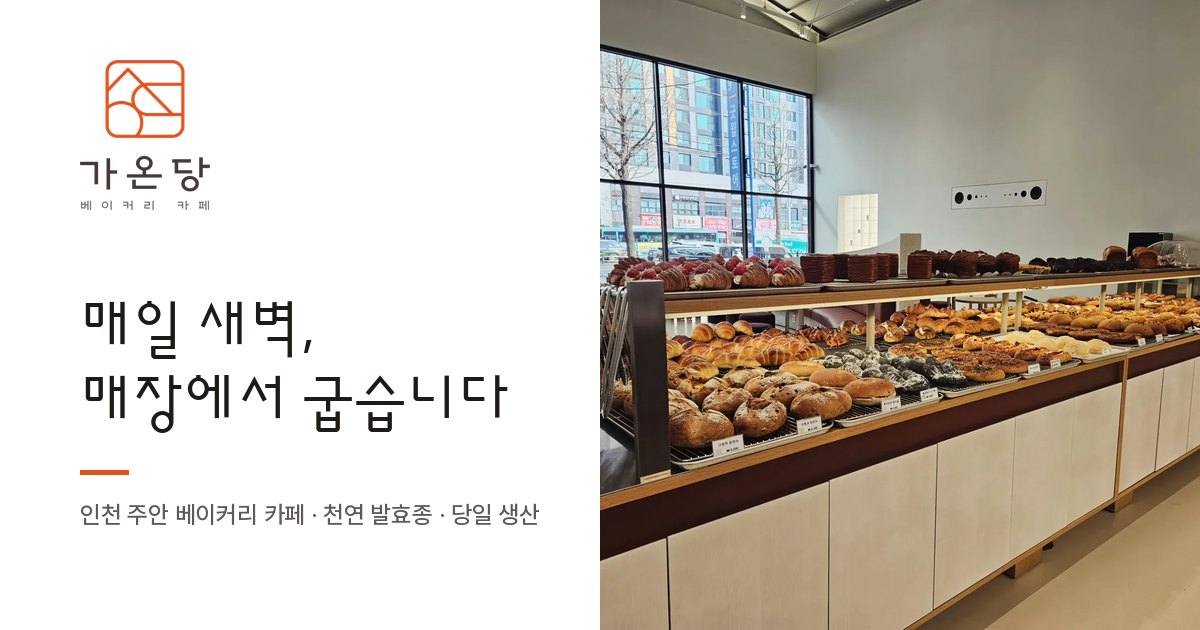
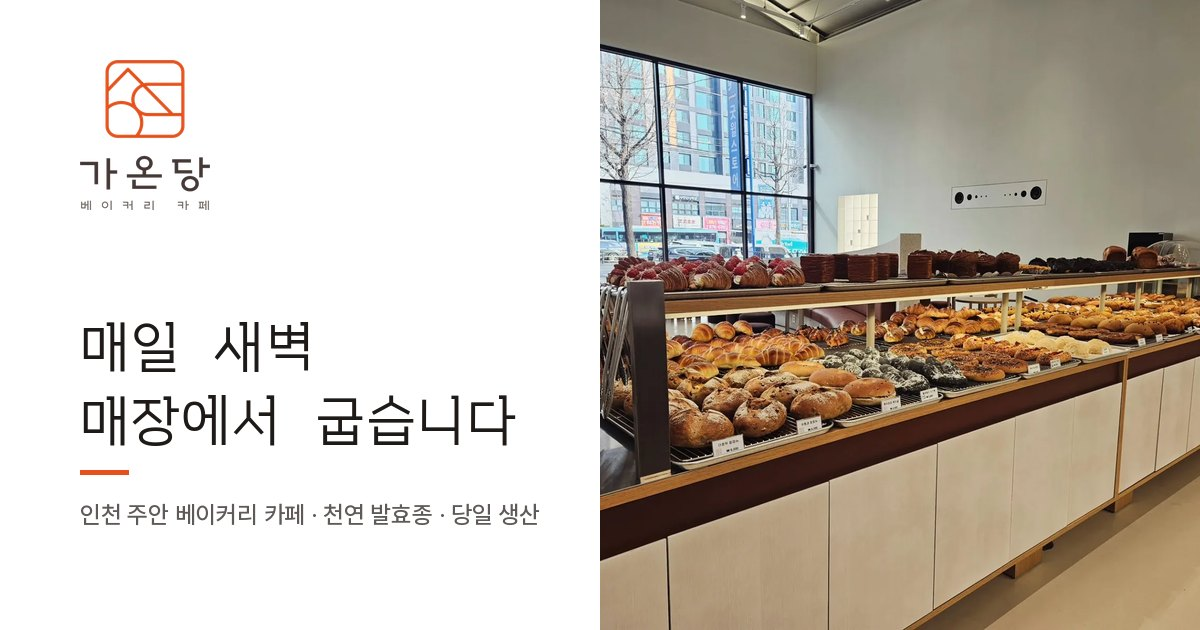
Add files via upload

Changed region(s): [[0.0617, 0.4825, 0.4317, 0.7238]]

diff --git a/index.html b/index.html
@@ -18,7 +18,7 @@
 <meta name="twitter:card" content="summary_large_image" />
 <meta name="theme-color" content="#FFFFFF" />
 <link rel="icon" href="favicon.png" type="image/png" />
-<link rel="preload" href="gd-sunflower-l.woff2" as="font" type="font/woff2" crossorigin />
+<link rel="preload" href="gd-orbit.woff2" as="font" type="font/woff2" crossorigin />
 <link rel="preload" href="gd-pretendard.woff2" as="font" type="font/woff2" crossorigin />
 <link rel="preload" href="gd-display.webp" as="image" />
 <!-- 시안 도메인 = gaondang-sample.lgt3232.workers.dev. 고객 인계 시 grep lgt3232 → canonical·og:url·og:image·JSON-LD url/image 치환 -->
@@ -38,8 +38,7 @@
 }
 </script>
 <style>
-@font-face{ font-family:"GD Head"; font-weight:300; font-display:swap; src:url("gd-sunflower-l.woff2") format("woff2"); }
-@font-face{ font-family:"GD Head"; font-weight:500; font-display:swap; src:url("gd-sunflower-m.woff2") format("woff2"); }
+@font-face{ font-family:"GD Head"; font-weight:400; font-display:swap; src:url("gd-orbit.woff2") format("woff2"); }
 @font-face{ font-family:"GD Sans"; font-weight:400 700; font-display:swap; src:url("gd-pretendard.woff2") format("woff2"); }
 
 :root{
@@ -68,7 +67,9 @@ h1,h2,h3,p{ margin:0; }
 .paper{ background:var(--paper); }
 
 .label{ font-size:.82rem; font-weight:700; letter-spacing:.14em; color:var(--orange-t); }
-.h2{ margin-top:14px; font-family:var(--head); font-weight:300; font-size:clamp(2rem,4.8vw,3rem); line-height:1.35; letter-spacing:0; }
+/* 오르빗은 띄어쓰기 폭이 넓어 제목 계열만 살짝 좁힘 */
+.h2, .hero h1, .share h2, .fact h3, .foot .line{ word-spacing:-.14em; }
+.h2{ margin-top:14px; font-family:var(--head); font-weight:400; font-size:clamp(2rem,4.8vw,3rem); line-height:1.35; letter-spacing:0; }
 .desc{ margin-top:18px; max-width:32em; color:var(--soft); font-size:1.03rem; }
 
 .btn{ display:inline-flex; align-items:center; justify-content:center; min-height:52px; padding:0 26px; border:1.5px solid var(--ink); border-radius:var(--r); font-size:.98rem; font-weight:700; transition:background .2s ease, color .2s ease, transform .15s ease; }
@@ -85,7 +86,7 @@ h1,h2,h3,p{ margin:0; }
 .site-head .wrap{ display:flex; align-items:center; justify-content:space-between; gap:16px; min-height:64px; }
 .brand{ display:flex; align-items:center; gap:10px; }
 .brand img{ width:34px; }
-.brand b{ font-family:var(--head); font-weight:500; font-size:1.25rem; letter-spacing:.08em; }
+.brand b{ font-family:var(--head); font-weight:400; font-size:1.25rem; letter-spacing:.08em; }
 .brand small{ font-size:.78rem; color:var(--soft); letter-spacing:.12em; }
 .nav{ display:none; gap:28px; font-size:.95rem; font-weight:500; }
 @media (min-width:900px){ .nav{ display:flex; } }
@@ -98,7 +99,7 @@ h1,h2,h3,p{ margin:0; }
 .hero .wrap{ display:grid; gap:40px; padding:48px 0 72px; align-items:center; }
 @media (min-width:900px){ .hero .wrap{ grid-template-columns:4fr 7fr; gap:72px; padding:80px 0 112px; } }
 .hero .logo{ width:112px; }
-.hero h1{ margin-top:32px; font-family:var(--head); font-weight:300; font-size:clamp(2.4rem,6vw,3.9rem); line-height:1.3; letter-spacing:0; }
+.hero h1{ margin-top:32px; font-family:var(--head); font-weight:400; font-size:clamp(2.4rem,6vw,3.9rem); line-height:1.3; letter-spacing:0; }
 .hero p.big{ margin-top:20px; font-size:1.06rem; line-height:1.75; max-width:24em; color:var(--soft); }
 .hero .cta{ display:flex; flex-wrap:wrap; gap:10px; margin-top:32px; }
 .hero figure{ margin:0; }
@@ -110,8 +111,8 @@ h1,h2,h3,p{ margin:0; }
 .facts{ margin-top:36px; display:grid; gap:0; }
 .fact{ display:grid; grid-template-columns:56px 1fr; gap:14px; padding:20px 0; border-top:1px solid var(--line); }
 .fact:last-child{ border-bottom:1px solid var(--line); }
-.fact .n{ font-family:var(--head); font-weight:500; font-size:1.5rem; color:var(--orange-t); line-height:1.2; }
-.fact h3{ font-family:var(--head); font-weight:500; font-size:1.2rem; }
+.fact .n{ font-family:var(--head); font-weight:400; font-size:1.5rem; color:var(--orange-t); line-height:1.2; }
+.fact h3{ font-family:var(--head); font-weight:400; font-size:1.2rem; }
 .fact p{ margin-top:4px; color:var(--soft); font-size:.96rem; }
 .dawn figure{ margin:0; }
 .dawn img{ width:100%; aspect-ratio:1; object-fit:cover; border-radius:var(--r); }
@@ -146,7 +147,7 @@ h1,h2,h3,p{ margin:0; }
 /* 나눔: 주황 면 */
 .share{ background:var(--orange); color:var(--white); text-align:center; }
 .share .icon{ width:72px; margin:0 auto; }
-.share h2{ margin-top:28px; font-family:var(--head); font-weight:500; font-size:clamp(2.1rem,5.2vw,3.3rem); line-height:1.35; letter-spacing:0; }
+.share h2{ margin-top:28px; font-family:var(--head); font-weight:400; font-size:clamp(2.1rem,5.2vw,3.3rem); line-height:1.35; letter-spacing:0; }
 .share p{ margin:22px auto 0; max-width:26em; font-size:1.2rem; font-weight:600; line-height:1.7; }
 
 /* 공간 */
@@ -177,7 +178,7 @@ h1,h2,h3,p{ margin:0; }
 .foot{ background:var(--white); color:var(--ink); border-top:1px solid var(--line); text-align:center; padding:60px 0 calc(110px + env(safe-area-inset-bottom)); }
 @media (min-width:900px){ .foot{ padding:76px 0; } }
 .foot img{ width:96px; margin:0 auto 22px; }
-.foot .line{ font-family:var(--head); font-weight:500; font-size:1.35rem; }
+.foot .line{ font-family:var(--head); font-weight:400; font-size:1.35rem; }
 .foot p.s{ margin-top:10px; font-size:.92rem; color:var(--soft); }
 .foot a{ text-decoration:underline; text-underline-offset:3px; }
 
